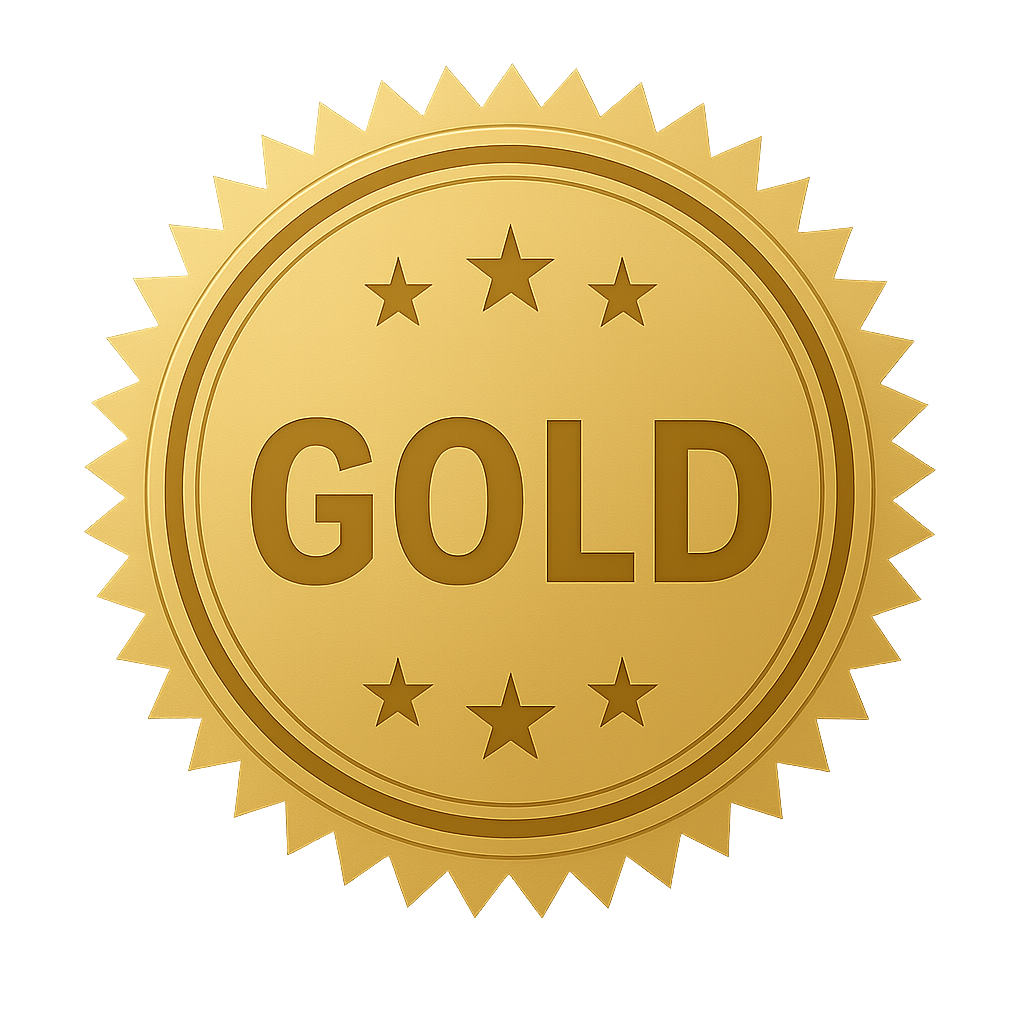
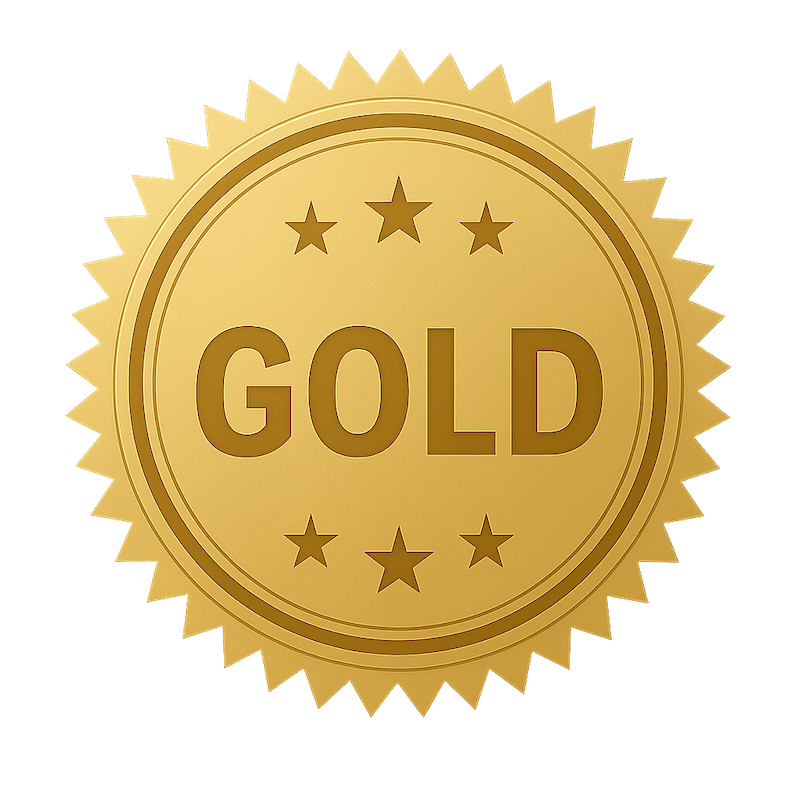
resized images to get better lighouse performances

diff --git a/packages/templates/packages/package_detail.html b/packages/templates/packages/package_detail.html
@@ -17,6 +17,9 @@
         src="{{ package.image.url }}"
         alt="{{ package.name }}"
         class="img-fluid rounded"
+        width="840"
+        height="840"
+        loading="lazy"
         onerror="this.style.display='none'"
       />
       {% else %}
@@ -24,6 +27,9 @@
         src="{% static 'images/default-package.png' %}"
         alt="No Image"
         class="img-fluid rounded"
+        width="840"
+        height="840"
+        loading="lazy"
       />
       {% endif %}
     </div>

diff --git a/packages/static/packages/css/package_detail.css b/packages/static/packages/css/package_detail.css
@@ -17,6 +17,10 @@
 #package-detail img {
     width: 100%;
     height: auto;
+    max-width: 840px;
+    object-fit: contain;
+    display: block;
+    margin: 0 auto;
 }
 
 #package-detail h1 {

diff --git a/staticfiles/packages/css/package_detail.css b/staticfiles/packages/css/package_detail.css
@@ -17,6 +17,10 @@
 #package-detail img {
     width: 100%;
     height: auto;
+    max-width: 840px;
+    object-fit: contain;
+    display: block;
+    margin: 0 auto;
 }
 
 #package-detail h1 {
